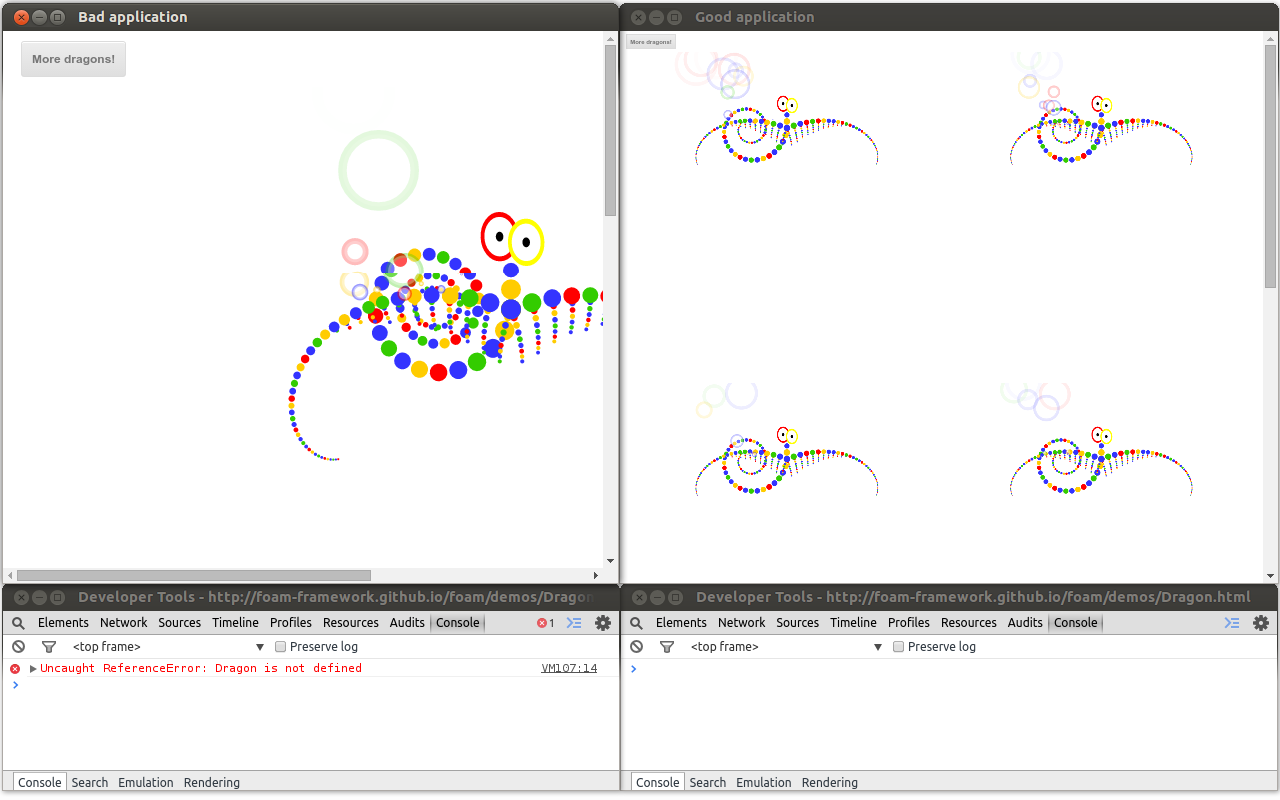
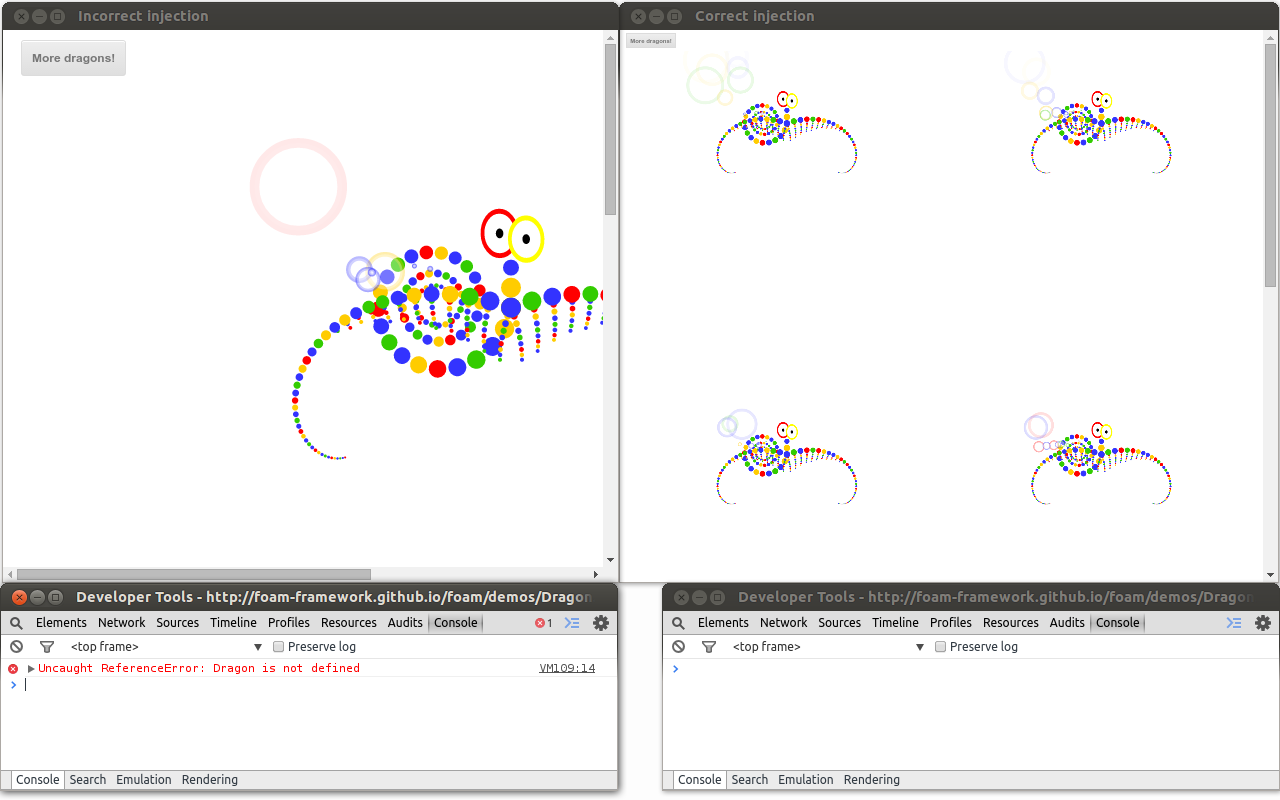
Rebrand "good/bad app" -> "correct/incorrect injection"

diff --git a/webview-samples/shared-script/incorrect_injection.js b/webview-samples/shared-script/incorrect_injection.js
@@ -7,7 +7,7 @@ window.addEventListener('load', function() {
       // What NOT to do: addMoreDragons depends on objects in the guest page
       // scripting context, but content scripts run in an "isolated world" that
       // can only access the document (and no other shared Javascript objects).
-      // See good_app.js for an example of what to do.
+      // See correct_injection.js for an example of what to do.
       var scriptText = '(' + addMoreDragons.toString() + ')();';
       webview.executeScript({ code: scriptText });
     }

diff --git a/webview-samples/shared-script/incorrect_injection.html b/webview-samples/shared-script/incorrect_injection.html
@@ -1,10 +1,10 @@
 <!DOCTYPE html>
 <html class="trim full">
   <head>
-    <title>Bad application</title>
+    <title>Incorrect injection</title>
     <link rel="stylesheet" href="app.css">
     <script type="text/javascript" src="more_dragons.js"></script>
-    <script type="text/javascript" src="bad_app.js"></script>
+    <script type="text/javascript" src="incorrect_injection.js"></script>
   </head>
   <body class="trim full">
     <webview class="trim full" src="http://foam-framework.github.io/foam/demos/Dragon.html"></webview>

diff --git a/webview-samples/shared-script/correct_injection.html b/webview-samples/shared-script/correct_injection.html
@@ -1,10 +1,10 @@
 <!DOCTYPE html>
 <html class="trim full">
   <head>
-    <title>Good application</title>
+    <title>Correct injection</title>
     <link rel="stylesheet" href="app.css">
     <script type="text/javascript" src="more_dragons.js"></script>
-    <script type="text/javascript" src="good_app.js"></script>
+    <script type="text/javascript" src="correct_injection.js"></script>
   </head>
   <body class="trim full">
     <webview class="trim full" src="http://foam-framework.github.io/foam/demos/Dragon.html"></webview>

diff --git a/webview-samples/shared-script/main.js b/webview-samples/shared-script/main.js
@@ -24,9 +24,9 @@ window.chrome.app.runtime.onRestarted.addListener(function() {
  */
 function runApp() {
   window.chrome.app.window.create(
-    'good_app.html',
+    'correct_injection.html',
     {'id': 'GoodWindowID'});
   window.chrome.app.window.create(
-    'bad_app.html',
+    'incorrect_injection.html',
     {'id': 'BadWindowID'});
 }

diff --git a/webview-samples/shared-script/README.md b/webview-samples/shared-script/README.md
@@ -1,14 +1,18 @@
-# Accessing existing Javascript objects with `<webview>`.executeScript()
+# Accessing the main world with `<webview>`.executeScript()
 
-This sample shows good and bad examples of injecting Javascript into
-`<webview>`, when the injected script is meant to interact with existing
-scripts on the page.
+Web view content scripts run in *an isolated world*. This means that they can
+access the current page's DOM, but cannot share objects with scripts included
+in the DOM because scripts in the DOM run in the *main world*. For a more
+detailed explanation, checkout [this
+video](https://www.youtube.com/watch?v=laLudeUmXHM).
 
-Chrome app content scripts run in an isolated world. This means that scripts
-injected into a `<webview>` have access to the DOM, but do not share any
-other Javascript objects with scripts on the page. If a content scripts needs
-access to such shared objects, then it must create a `<script>` tag and
-inject it into the DOM.
+Running in an isolated world is usually what the developer wants because
+access to the DOM is enough. Sometimes, the developer may want to access
+Javascript objects in the main world. This sample shows good and bad examples
+of injecting Javascript into a `<webview>` that is intended to run in the
+main world. To do this correctly, content script must create a `<script>` tag
+and inject it into the DOM. Then, the script contained within the `<script>`
+tag will be run in the main world.
 
 The sample shows a page that contains an animated dragon. The injected script
 adds the ability to construct dragons that animate in sync. In order to do
@@ -16,12 +20,13 @@ so, the script needs access to the `Dragon`
 [FOAM](http://foam-framework.github.io/foam/) model. To gain access, the
 injected script inserts a `<script>` tag into the DOM.
 
-The sample contains two app windows, a "Bad app" that attempts to inject the
-script directly and a "Good app" that injects the script into a `<script>`
-tag in the DOM.
+The sample contains two app windows: *Incorrect injection* attempts to inject
+the script directly and *Correct injection* injects the script into a
+`<script>` tag in the DOM.
 
 ## Resources
 
+* [Video about isolated worlds](https://www.youtube.com/watch?v=laLudeUmXHM)
 * [Webview](http://developer.chrome.com/apps/app_external.html#webview)
 * [FOAM](http://foam-framework.github.io/foam/)
 
